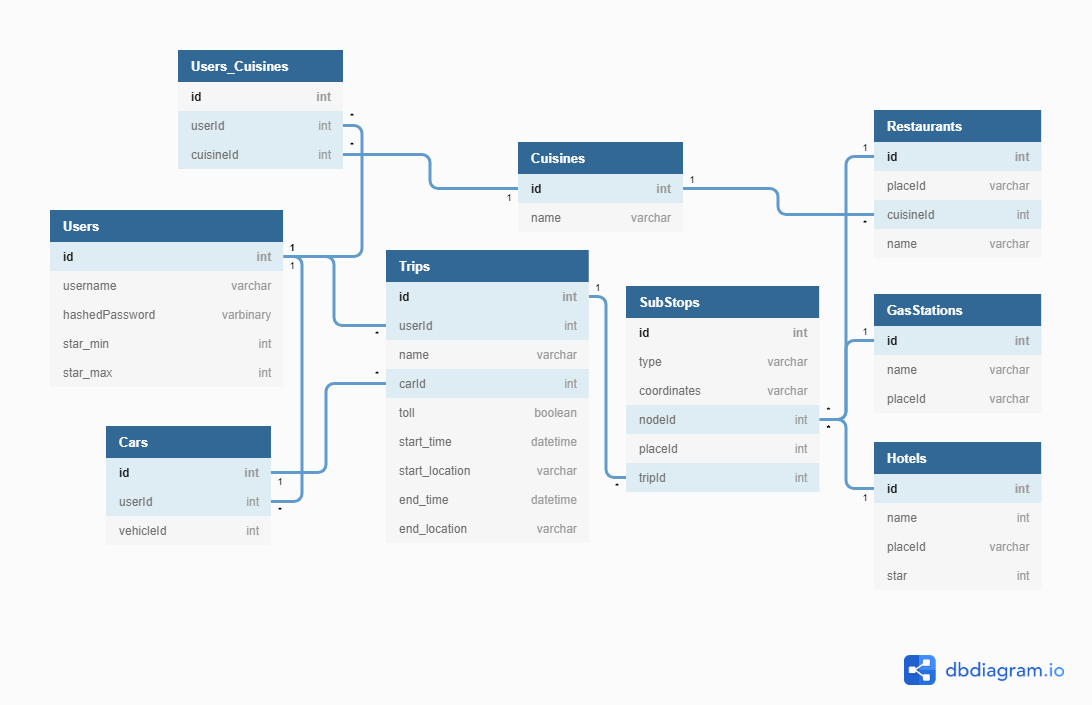
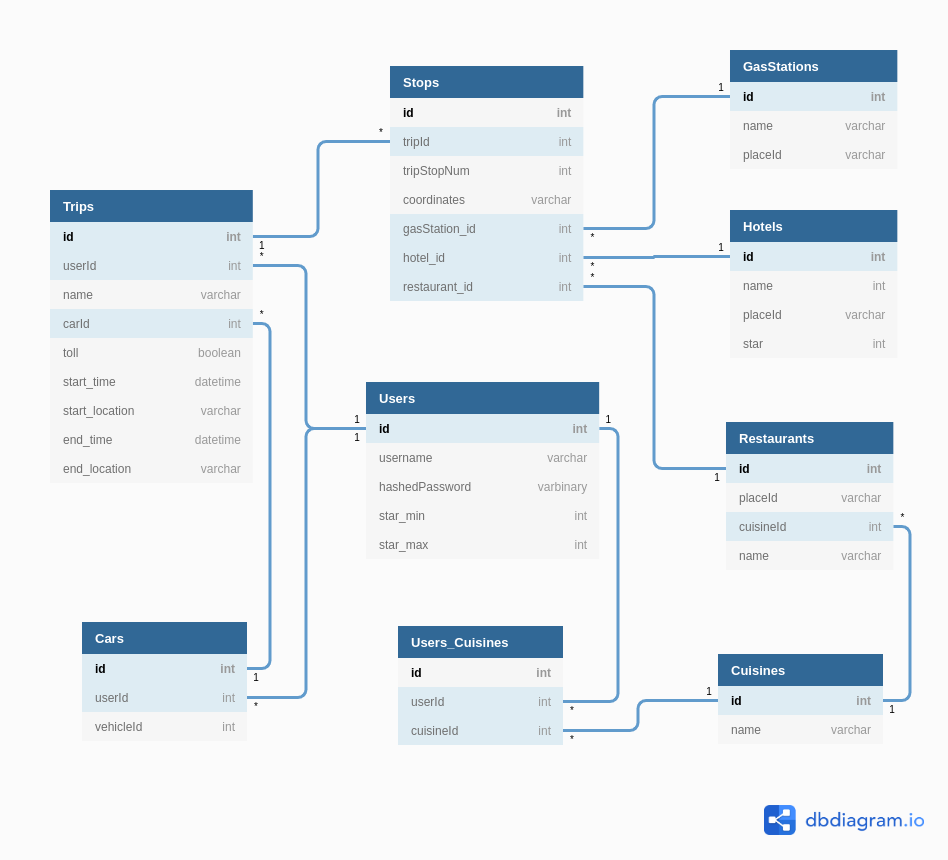
models updated

Changed region(s): [[0.0306, 0.0312, 0.9789, 0.8738], [0.7954, 0.905, 0.9789, 0.9986]]

diff --git a/migrations/versions/dfbd53fc8887_create_tables.py b/migrations/versions/dfbd53fc8887_create_tables.py
@@ -1,8 +1,8 @@
-"""tables created
+"""create tables
 
-Revision ID: 77eeae4b3cc2
+Revision ID: dfbd53fc8887
 Revises: 
-Create Date: 2020-11-22 20:15:13.203001
+Create Date: 2020-11-23 13:37:42.216413
 
 """
 from alembic import op
@@ -10,7 +10,7 @@ import sqlalchemy as sa
 
 
 # revision identifiers, used by Alembic.
-revision = '77eeae4b3cc2'
+revision = 'dfbd53fc8887'
 down_revision = None
 branch_labels = None
 depends_on = None
@@ -36,13 +36,17 @@ def upgrade():
     sa.Column('place_id', sa.String(length=255), nullable=False),
     sa.PrimaryKeyConstraint('id')
     )
+    op.create_table('restaurants',
+    sa.Column('id', sa.Integer(), nullable=False),
+    sa.Column('name', sa.String(length=100), nullable=False),
+    sa.Column('place_id', sa.String(length=255), nullable=False),
+    sa.PrimaryKeyConstraint('id')
+    )
     op.create_table('users',
     sa.Column('id', sa.Integer(), nullable=False),
     sa.Column('username', sa.String(length=40), nullable=False),
     sa.Column('email', sa.String(length=255), nullable=False),
     sa.Column('hashed_password', sa.String(length=255), nullable=False),
-    sa.Column('star_min', sa.Integer(), nullable=True),
-    sa.Column('star_max', sa.Integer(), nullable=True),
     sa.PrimaryKeyConstraint('id'),
     sa.UniqueConstraint('email'),
     sa.UniqueConstraint('username')
@@ -54,20 +58,12 @@ def upgrade():
     sa.ForeignKeyConstraint(['user_id'], ['users.id'], ),
     sa.PrimaryKeyConstraint('id')
     )
-    op.create_table('restaurants',
-    sa.Column('id', sa.Integer(), nullable=False),
-    sa.Column('name', sa.String(length=100), nullable=False),
-    sa.Column('cuisine_id', sa.Integer(), nullable=False),
-    sa.Column('place_id', sa.String(length=255), nullable=False),
-    sa.ForeignKeyConstraint(['cuisine_id'], ['cuisines.id'], ),
-    sa.PrimaryKeyConstraint('id')
-    )
-    op.create_table('user_cuisines',
-    sa.Column('user_id', sa.Integer(), nullable=False),
+    op.create_table('restaurant_cuisines',
+    sa.Column('restaurant_id', sa.Integer(), nullable=False),
     sa.Column('cuisine_id', sa.Integer(), nullable=False),
     sa.ForeignKeyConstraint(['cuisine_id'], ['cuisines.id'], ),
-    sa.ForeignKeyConstraint(['user_id'], ['users.id'], ),
-    sa.PrimaryKeyConstraint('user_id', 'cuisine_id')
+    sa.ForeignKeyConstraint(['restaurant_id'], ['restaurants.id'], ),
+    sa.PrimaryKeyConstraint('restaurant_id', 'cuisine_id')
     )
     op.create_table('trips',
     sa.Column('id', sa.Integer(), nullable=False),
@@ -91,23 +87,33 @@ def upgrade():
     sa.Column('gas_station_id', sa.Integer(), nullable=True),
     sa.Column('hotel_id', sa.Integer(), nullable=True),
     sa.Column('restaurant_id', sa.Integer(), nullable=True),
+    sa.Column('star_min', sa.Integer(), nullable=True),
+    sa.Column('star_max', sa.Integer(), nullable=True),
     sa.ForeignKeyConstraint(['gas_station_id'], ['gas_stations.id'], ),
     sa.ForeignKeyConstraint(['hotel_id'], ['hotels.id'], ),
     sa.ForeignKeyConstraint(['restaurant_id'], ['restaurants.id'], ),
     sa.ForeignKeyConstraint(['trip_id'], ['trips.id'], ),
     sa.PrimaryKeyConstraint('id')
     )
+    op.create_table('stop_cuisines',
+    sa.Column('stop_id', sa.Integer(), nullable=False),
+    sa.Column('cuisine_id', sa.Integer(), nullable=False),
+    sa.ForeignKeyConstraint(['cuisine_id'], ['cuisines.id'], ),
+    sa.ForeignKeyConstraint(['stop_id'], ['stops.id'], ),
+    sa.PrimaryKeyConstraint('stop_id', 'cuisine_id')
+    )
     # ### end Alembic commands ###
 
 
 def downgrade():
     # ### commands auto generated by Alembic - please adjust! ###
+    op.drop_table('stop_cuisines')
     op.drop_table('stops')
     op.drop_table('trips')
-    op.drop_table('user_cuisines')
-    op.drop_table('restaurants')
+    op.drop_table('restaurant_cuisines')
     op.drop_table('cars')
     op.drop_table('users')
+    op.drop_table('restaurants')
     op.drop_table('hotels')
     op.drop_table('gas_stations')
     op.drop_table('cuisines')

diff --git a/app/models/user.py b/app/models/user.py
@@ -1,7 +1,6 @@
 from .db import db
 from werkzeug.security import generate_password_hash, check_password_hash
 from flask_login import UserMixin
-from .user_cuisines import user_cuisines
 
 
 class User(db.Model, UserMixin):
@@ -11,13 +10,8 @@ class User(db.Model, UserMixin):
     username = db.Column(db.String(40), nullable=False, unique=True)
     email = db.Column(db.String(255), nullable=False, unique=True)
     hashed_password = db.Column(db.String(255), nullable=False)
-    star_min = db.Column(db.Integer)
-    star_max = db.Column(db.Integer)
 
     cars = db.relationship("Car", backref="user", lazy="joined")
-    cuisines = db.relationship("Cuisine", secondary=user_cuisines,
-                               lazy="joined",
-                               backref=db.backref("user", lazy=True))
 
     @property
     def password(self):
@@ -35,8 +29,5 @@ class User(db.Model, UserMixin):
             "id": self.id,
             "username": self.username,
             "email": self.email,
-            "star_min": self.star_min,
-            "star_max": self.star_max,
             "cars": self.cars,
-            "cuisines": self.cuisines
         }

diff --git a/app/models/restaurants.py b/app/models/restaurants.py
@@ -1,13 +1,15 @@
 from .db import db
+from .restaurant_cuisines import restaurant_cuisines
 
 
 class Restaurant(db.Model):
-    __tablename__ = 'restaurants'
+    __tablename__ = "restaurants"
 
     id = db.Column(db.Integer, primary_key=True)
     name = db.Column(db.String(100), nullable=False)
-    cuisine_id = db.Column(db.Integer,
-                           db.ForeignKey('cuisines.id'), nullable=False)
     place_id = db.Column(db.String(255), nullable=False)
 
-    stops = db.relationship('Stop', backref='restaurant', lazy='joined')
+    stops = db.relationship("Stop", backref="restaurant", lazy="joined")
+    cuisines = db.relationship("Cuisine", secondary=restaurant_cuisines,
+                               lazy="joined",
+                               backref=db.backref("restaurant", lazy=True))

diff --git a/app/models/stops.py b/app/models/stops.py
@@ -1,4 +1,5 @@
 from .db import db
+from .stop_cuisines import stop_cuisines
 
 
 class Stop(db.Model):
@@ -11,3 +12,9 @@ class Stop(db.Model):
     gas_station_id = db.Column(db.Integer, db.ForeignKey('gas_stations.id'))
     hotel_id = db.Column(db.Integer, db.ForeignKey('hotels.id'))
     restaurant_id = db.Column(db.Integer, db.ForeignKey('restaurants.id'))
+    star_min = db.Column(db.Integer)
+    star_max = db.Column(db.Integer)
+
+    cuisines = db.relationship("Cuisine", secondary=stop_cuisines,
+                               lazy="joined",
+                               backref=db.backref("stop", lazy=True))

diff --git a/app/models/restaurant_cuisines.py b/app/models/restaurant_cuisines.py
@@ -1,0 +1,12 @@
+from .db import db
+
+
+restaurant_cuisines = db.Table('restaurant_cuisines',
+                               db.Column('restaurant_id',
+                                         db.Integer,
+                                         db.ForeignKey('restaurants.id'),
+                                         primary_key=True),
+                               db.Column('cuisine_id',
+                                         db.Integer,
+                                         db.ForeignKey('cuisines.id'),
+                                         primary_key=True))

diff --git a/app/models/stop_cuisines.py b/app/models/stop_cuisines.py
@@ -1,10 +1,10 @@
 from .db import db
 
 
-user_cuisines = db.Table('user_cuisines',
-                         db.Column('user_id',
+stop_cuisines = db.Table('stop_cuisines',
+                         db.Column('stop_id',
                                    db.Integer,
-                                   db.ForeignKey('users.id'),
+                                   db.ForeignKey('stops.id'),
                                    primary_key=True),
                          db.Column('cuisine_id',
                                    db.Integer,

diff --git a/app/models/cuisines.py b/app/models/cuisines.py
@@ -1,5 +1,4 @@
 from .db import db
-from .user import user_cuisines
 
 
 class Cuisine(db.Model):
@@ -7,9 +6,3 @@ class Cuisine(db.Model):
 
     id = db.Column(db.Integer, primary_key=True)
     name = db.Column(db.String(100), nullable=False)
-
-    # users = db.relationship('User',
-    #                         secondary=user_cuisines,
-    #                         lazy='joined',
-    #                         back_populates='cuisines',
-    #                         backref=db.backref('cuisine', lazy='joined'))

diff --git a/app/models/__init__.py b/app/models/__init__.py
@@ -4,7 +4,8 @@ from .cuisines import Cuisine
 from .gas_stations import GasStation
 from .hotels import Hotel
 from .restaurants import Restaurant
+from .restaurant_cuisines import restaurant_cuisines
 from .stops import Stop
+from .stop_cuisines import stop_cuisines
 from .trips import Trip
-from .user_cuisines import user_cuisines
 from .user import User

diff --git a/app/models/cars.py b/app/models/cars.py
@@ -7,5 +7,3 @@ class Car(db.Model):
     id = db.Column(db.Integer, primary_key=True)
     user_id = db.Column(db.Integer, db.ForeignKey("users.id"), nullable=False)
     vehicle_id = db.Column(db.Integer, nullable=False)
-
-    # user = db.relationship("User", back_populates="cars")
